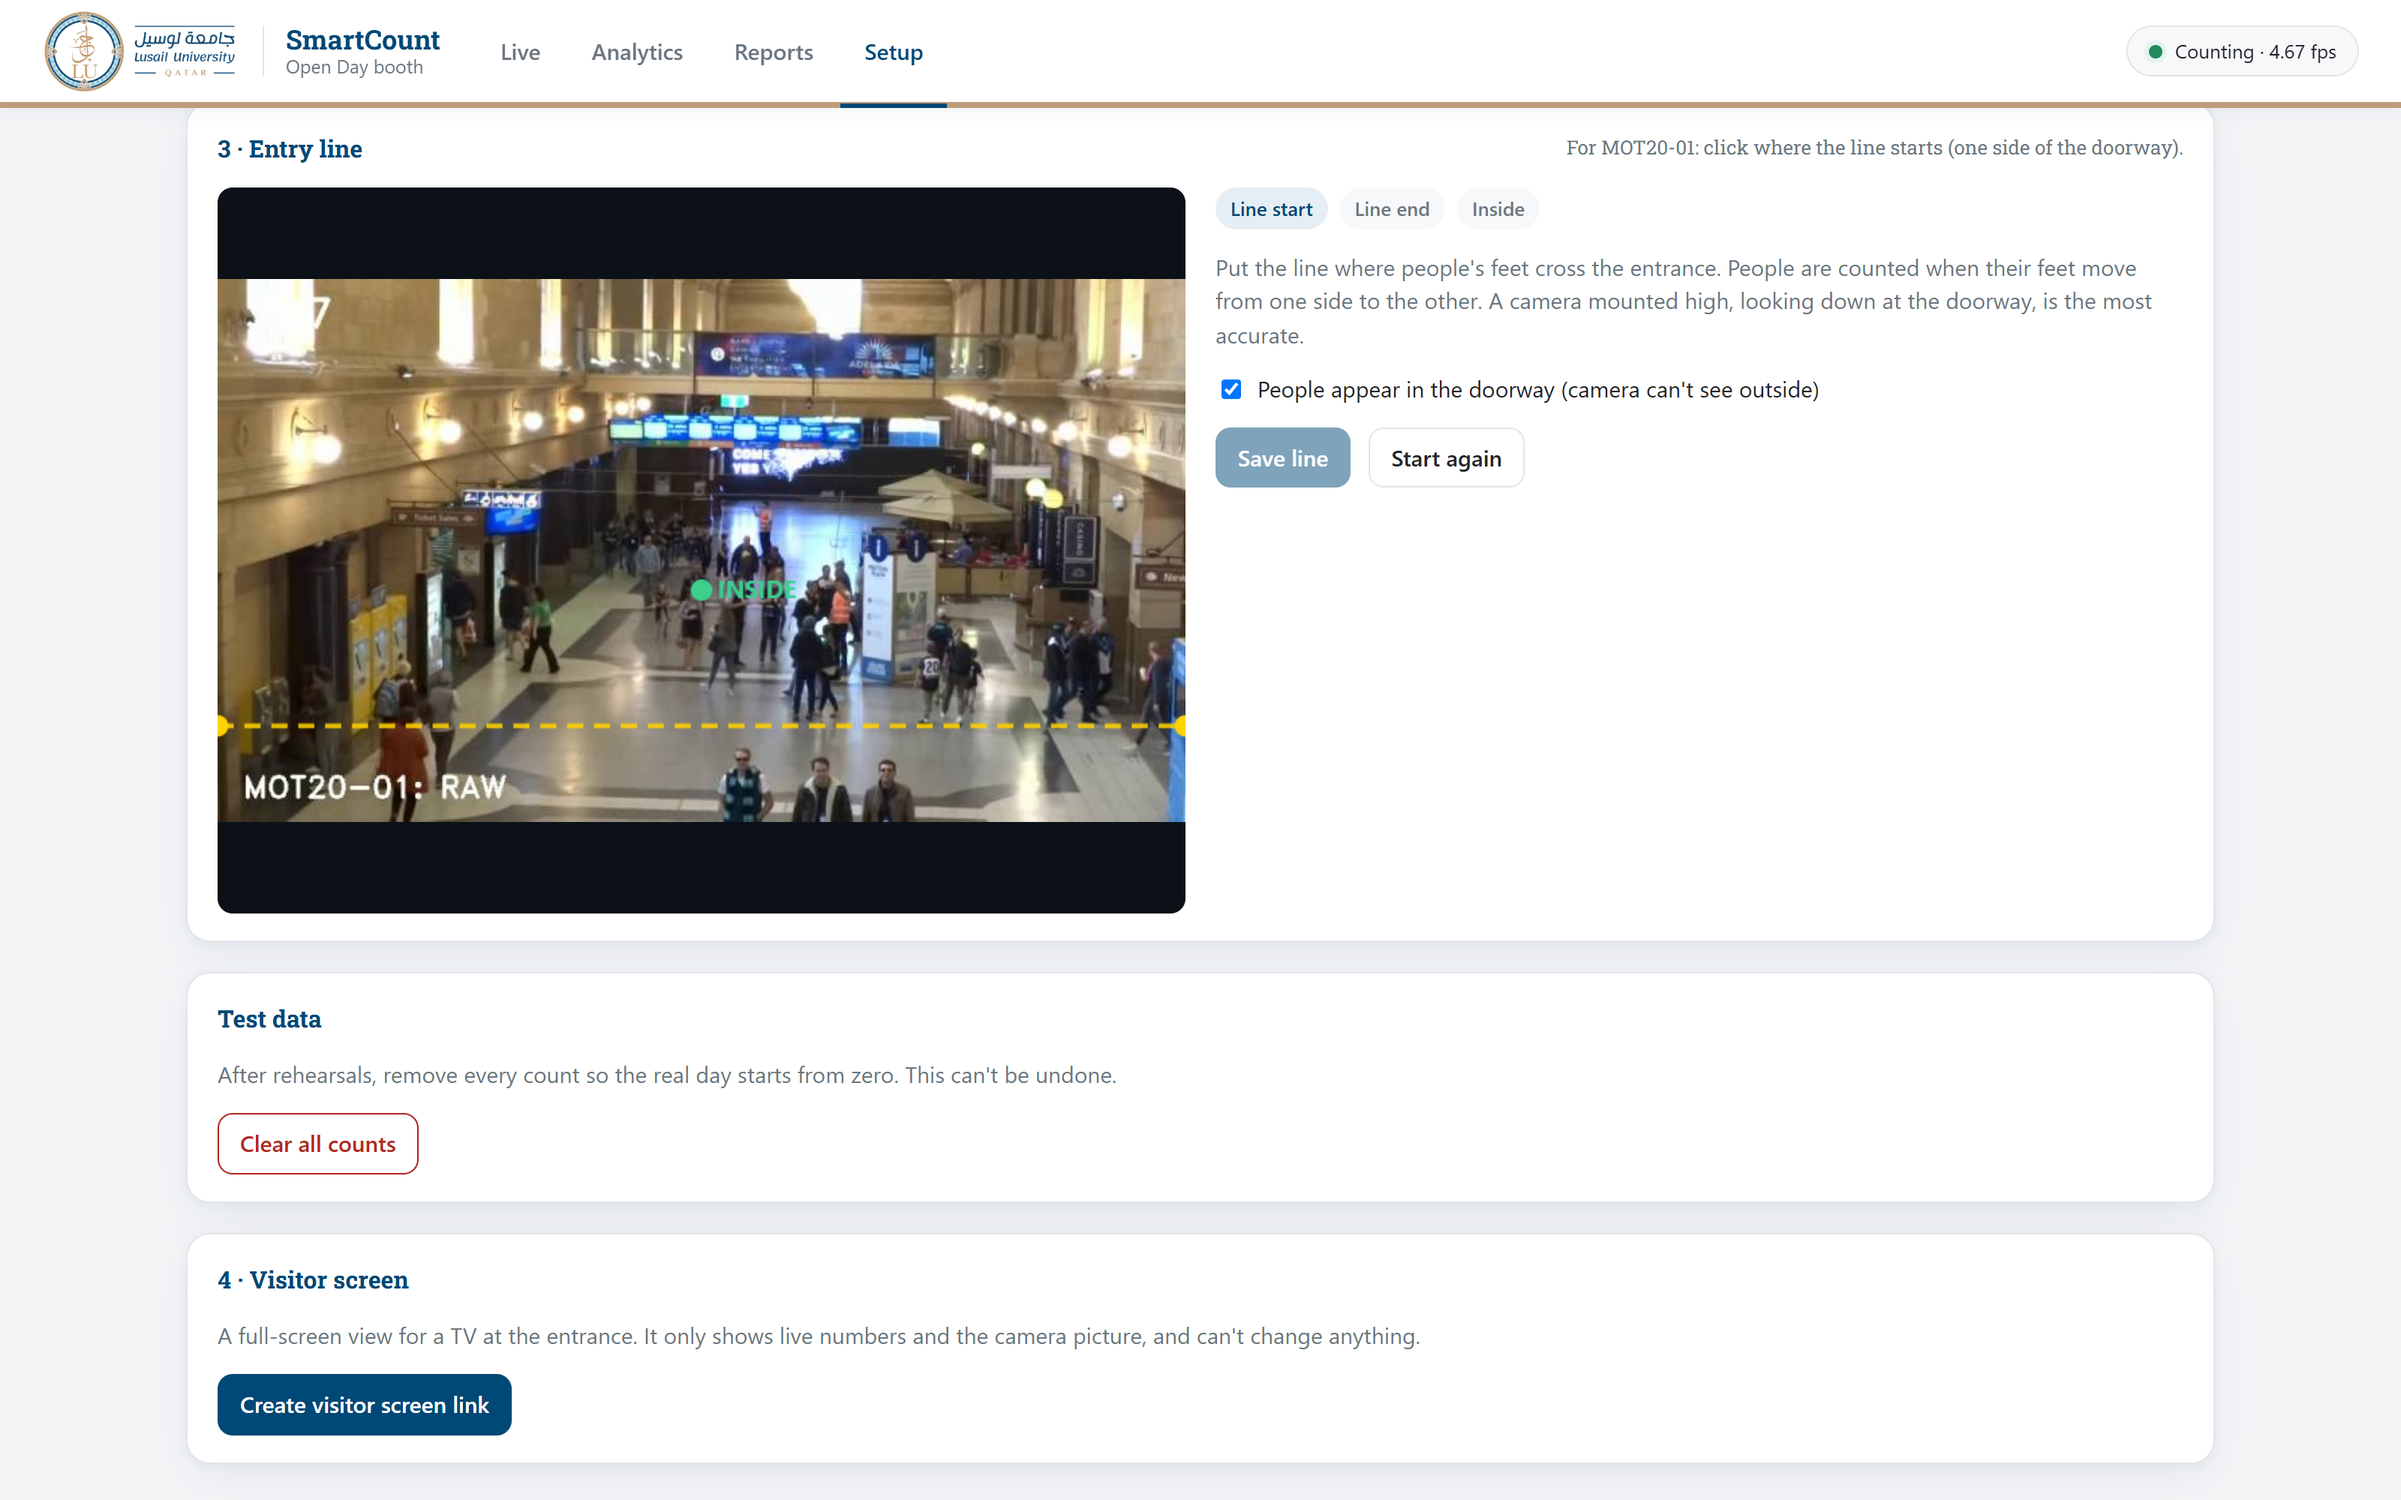
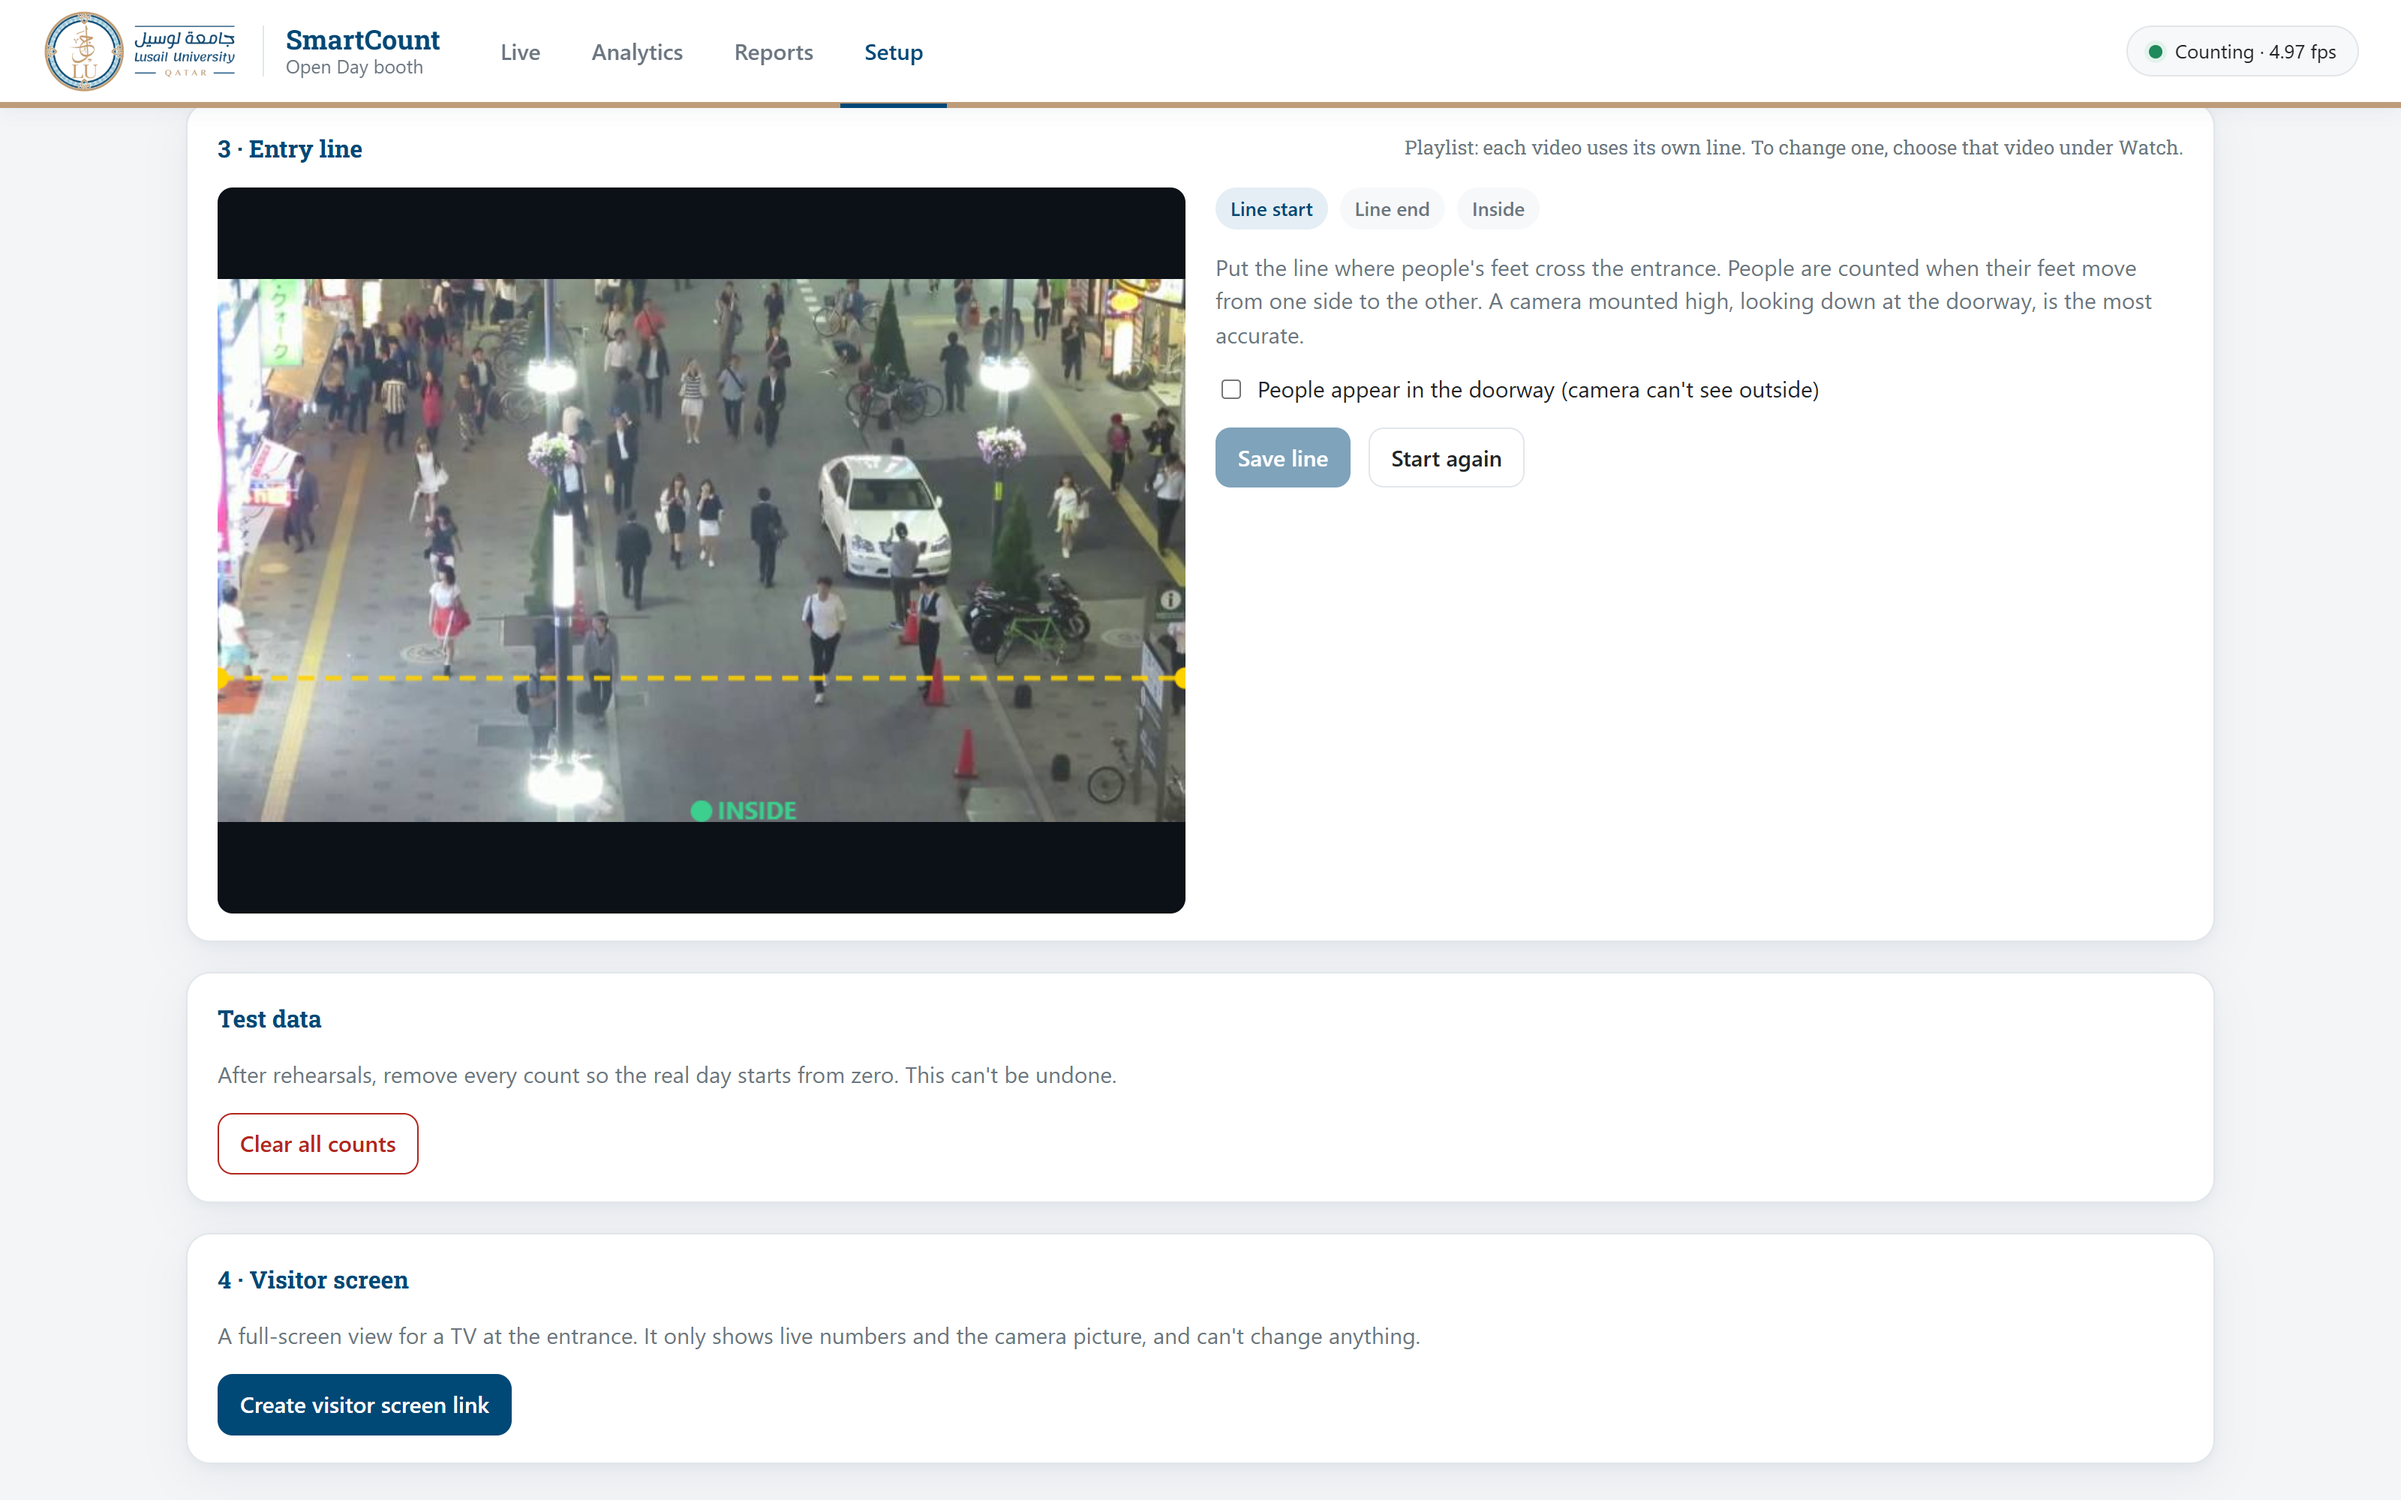
Add Reports page, example PDF and Excel reports, and updated Setup picture

Changed region(s): [[0.0938, 0.186, 0.5, 0.558], [0.5938, 0.093, 0.9062, 0.124]]

diff --git a/README.md b/README.md
@@ -54,6 +54,17 @@ exist, but they need special sensors and subscriptions, and the data usually lea
 
 ![Setup: drawing the entry line on the camera picture](docs/images/setup.png)
 
+### Reports
+
+Pick any period and download it as PDF, Excel or CSV. Every format is built from the same numbers as the app.
+
+![Reports page: choose a period, see the totals, download PDF, Excel or CSV](docs/images/reports.png)
+
+Example files, made by the system from a short demo run:
+[PDF report](docs/examples/example-report.pdf) · [Excel workbook](docs/examples/example-report.xlsx)
+
+<img src="docs/images/report-page-1.png" alt="First page of the example PDF report: entries, exits, peak inside, summary table and an hourly chart" width="480">
+
 ## Results
 
 Measured end to end on the live system, against the six [MOTChallenge](https://motchallenge.net) videos that have
@@ -102,6 +113,8 @@ This is the public showcase. The production code is kept private.
 
 The demo footage in the screenshots is from MOTChallenge (MOT17: Milan et al. 2016; MOT20: Dendorfer et al. 2020),
 used under CC BY-NC-SA 3.0 for non-commercial demonstration. Screenshots that contain it are shared under the same licence.
+The example reports count people in that footage; the busy streets and crowds in it are not an entrance, so entries
+and exits don't balance the way they would at a real door.
 The Lusail University name and logo are used with the university's permission and are not covered by any licence here.
 
 © 2026 Awab Mohamed. All rights reserved, except as stated above for the demo footage.
